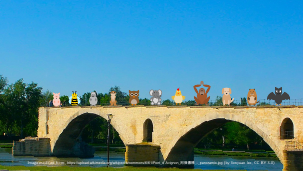
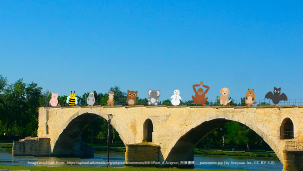
Avignon: avoid dimension too large error due to path decorations

diff --git a/samcarter/Avignon/Avignon.tex b/samcarter/Avignon/Avignon.tex
@@ -23,18 +23,18 @@
       \meerkat[scale=0.38,yshift=-4.7cm,xshift=12.5cm,rotate=-7.34*sin(\thepage*7)]
       \owl[scale=0.39,yshift=-4.6cm,xshift=15cm,rotate=-7.34*sin(\thepage*7)]
       \elephant[scale=0.4,yshift=-4.4cm,xshift=17.5cm,rotate=-7.34*sin(\thepage*7)]
-      \chicken[scale=0.41,yshift=-4.3cm,xshift=20cm,rotate=-7.34*sin(\thepage*7)]
-      \ape[scale=0.42,yshift=-4.2cm,xshift=22.5cm,handposition=clap,rotate=-7.34*sin(\thepage*7)]
-      \dog[scale=0.43,yshift=-4.1cm,xshift=25cm,rotate=-7.34*sin(\thepage*7)]
-      \marmot[scale=0.44,yshift=-4.1cm,xshift=27.5cm,rotate=-7.34*sin(\thepage*7)]
-      \bat[scale=0.45,yshift=-3.9cm,xshift=30cm,wings=0.5,rotate=-7.34*sin(\thepage*7)]
+      \snowman[scale=0.41,yshift=-4.3cm,xshift=20cm,rotate=-7.34*sin(\thepage*7)]
+      \ape[scale=0.42,yshift=-4.2cm,xshift=22.5cm,handposition=clap,rotate=-7.34*sin(\thepage*7),]
+      \dog[scale=0.43,yshift=-4.1cm,xshift=25cm,rotate=-7.34*sin(\thepage*7),]
+      \marmot[scale=0.44,yshift=-4.1cm,xshift=27.5cm,rotate=-7.34*sin(\thepage*7),]
+      \bat[scale=0.45,yshift=-3.9cm,xshift=30cm,wings=0.5,rotate=-7.34*sin(\thepage*7),]
     \end{scope}
 
     % credit for background image
     \node[white,text width=\paperwidth,font=\tiny,align=center] at ([yshift=0.35cm]current page.south) {Image modified from: \url{https://upload.wikimedia.org/wikipedia/commons/6/61/Pont_d`Avignon_阿微儂橋_-_panoramio.jpg} (by lienyuan lee, CC BY 3.0)};
 
   \end{tikzpicture}
-  \pause[400]
+  \pause[425]
 \end{frame}
 
 \end{document}
